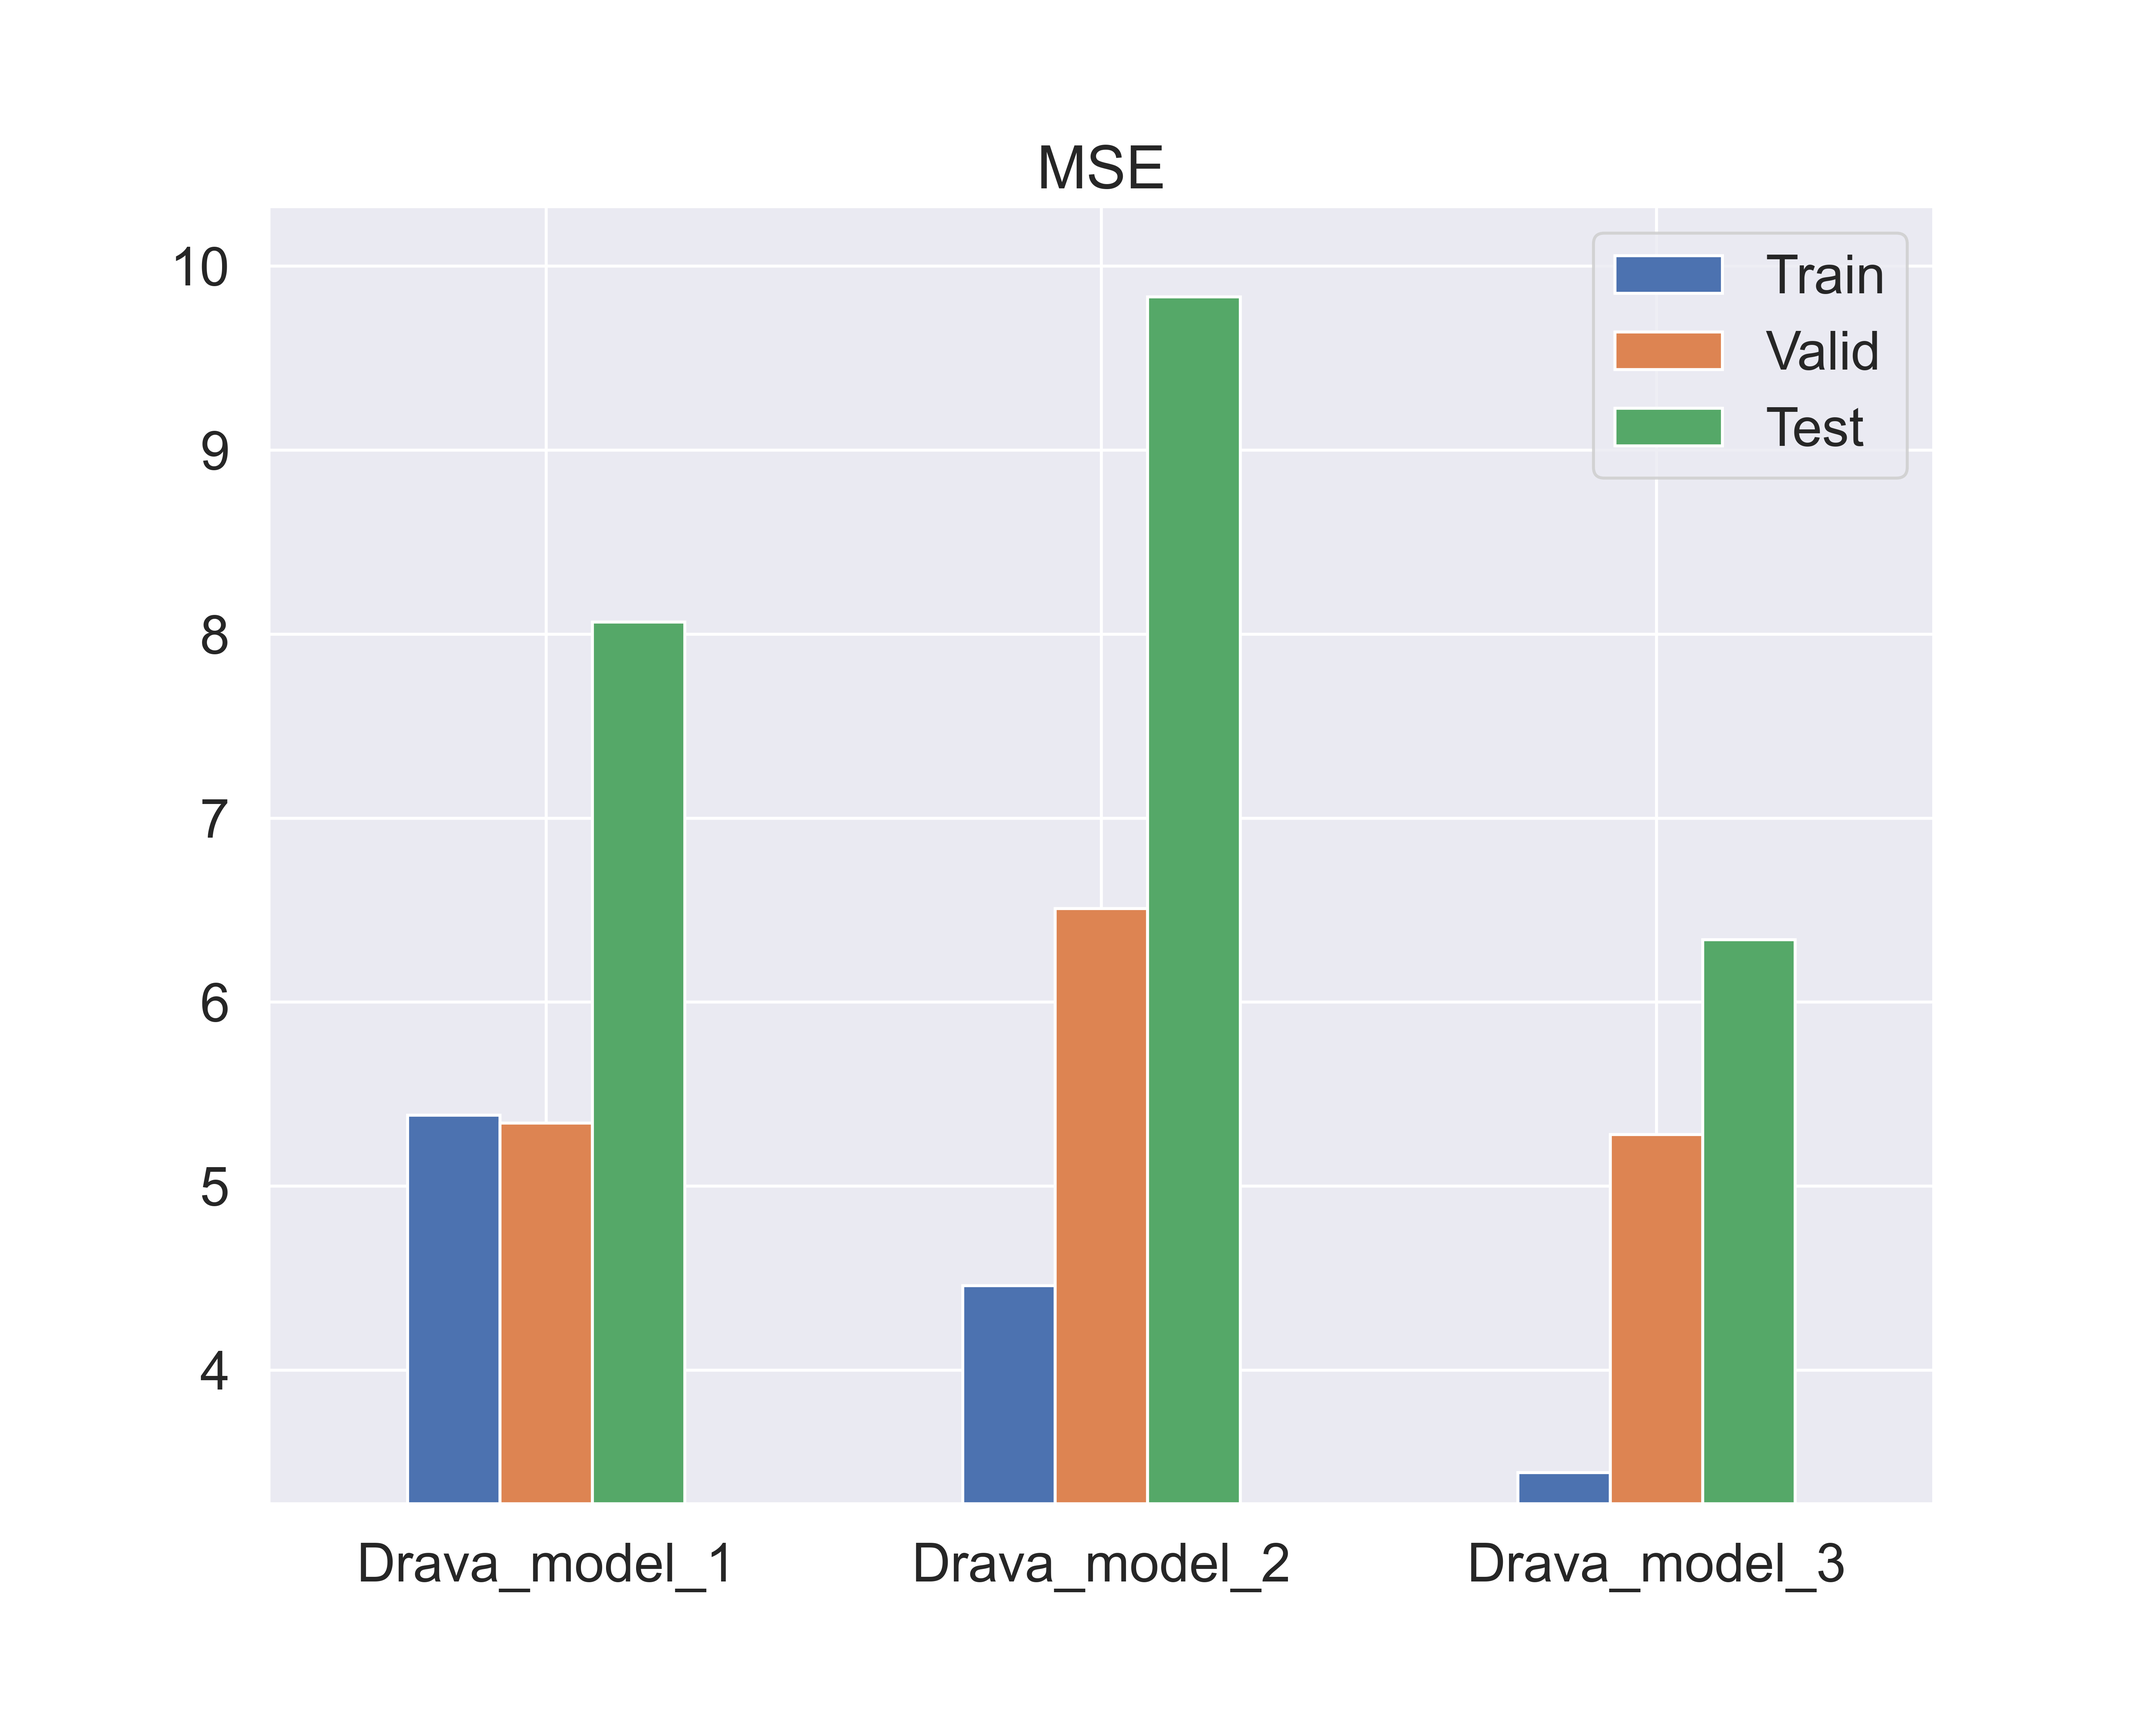
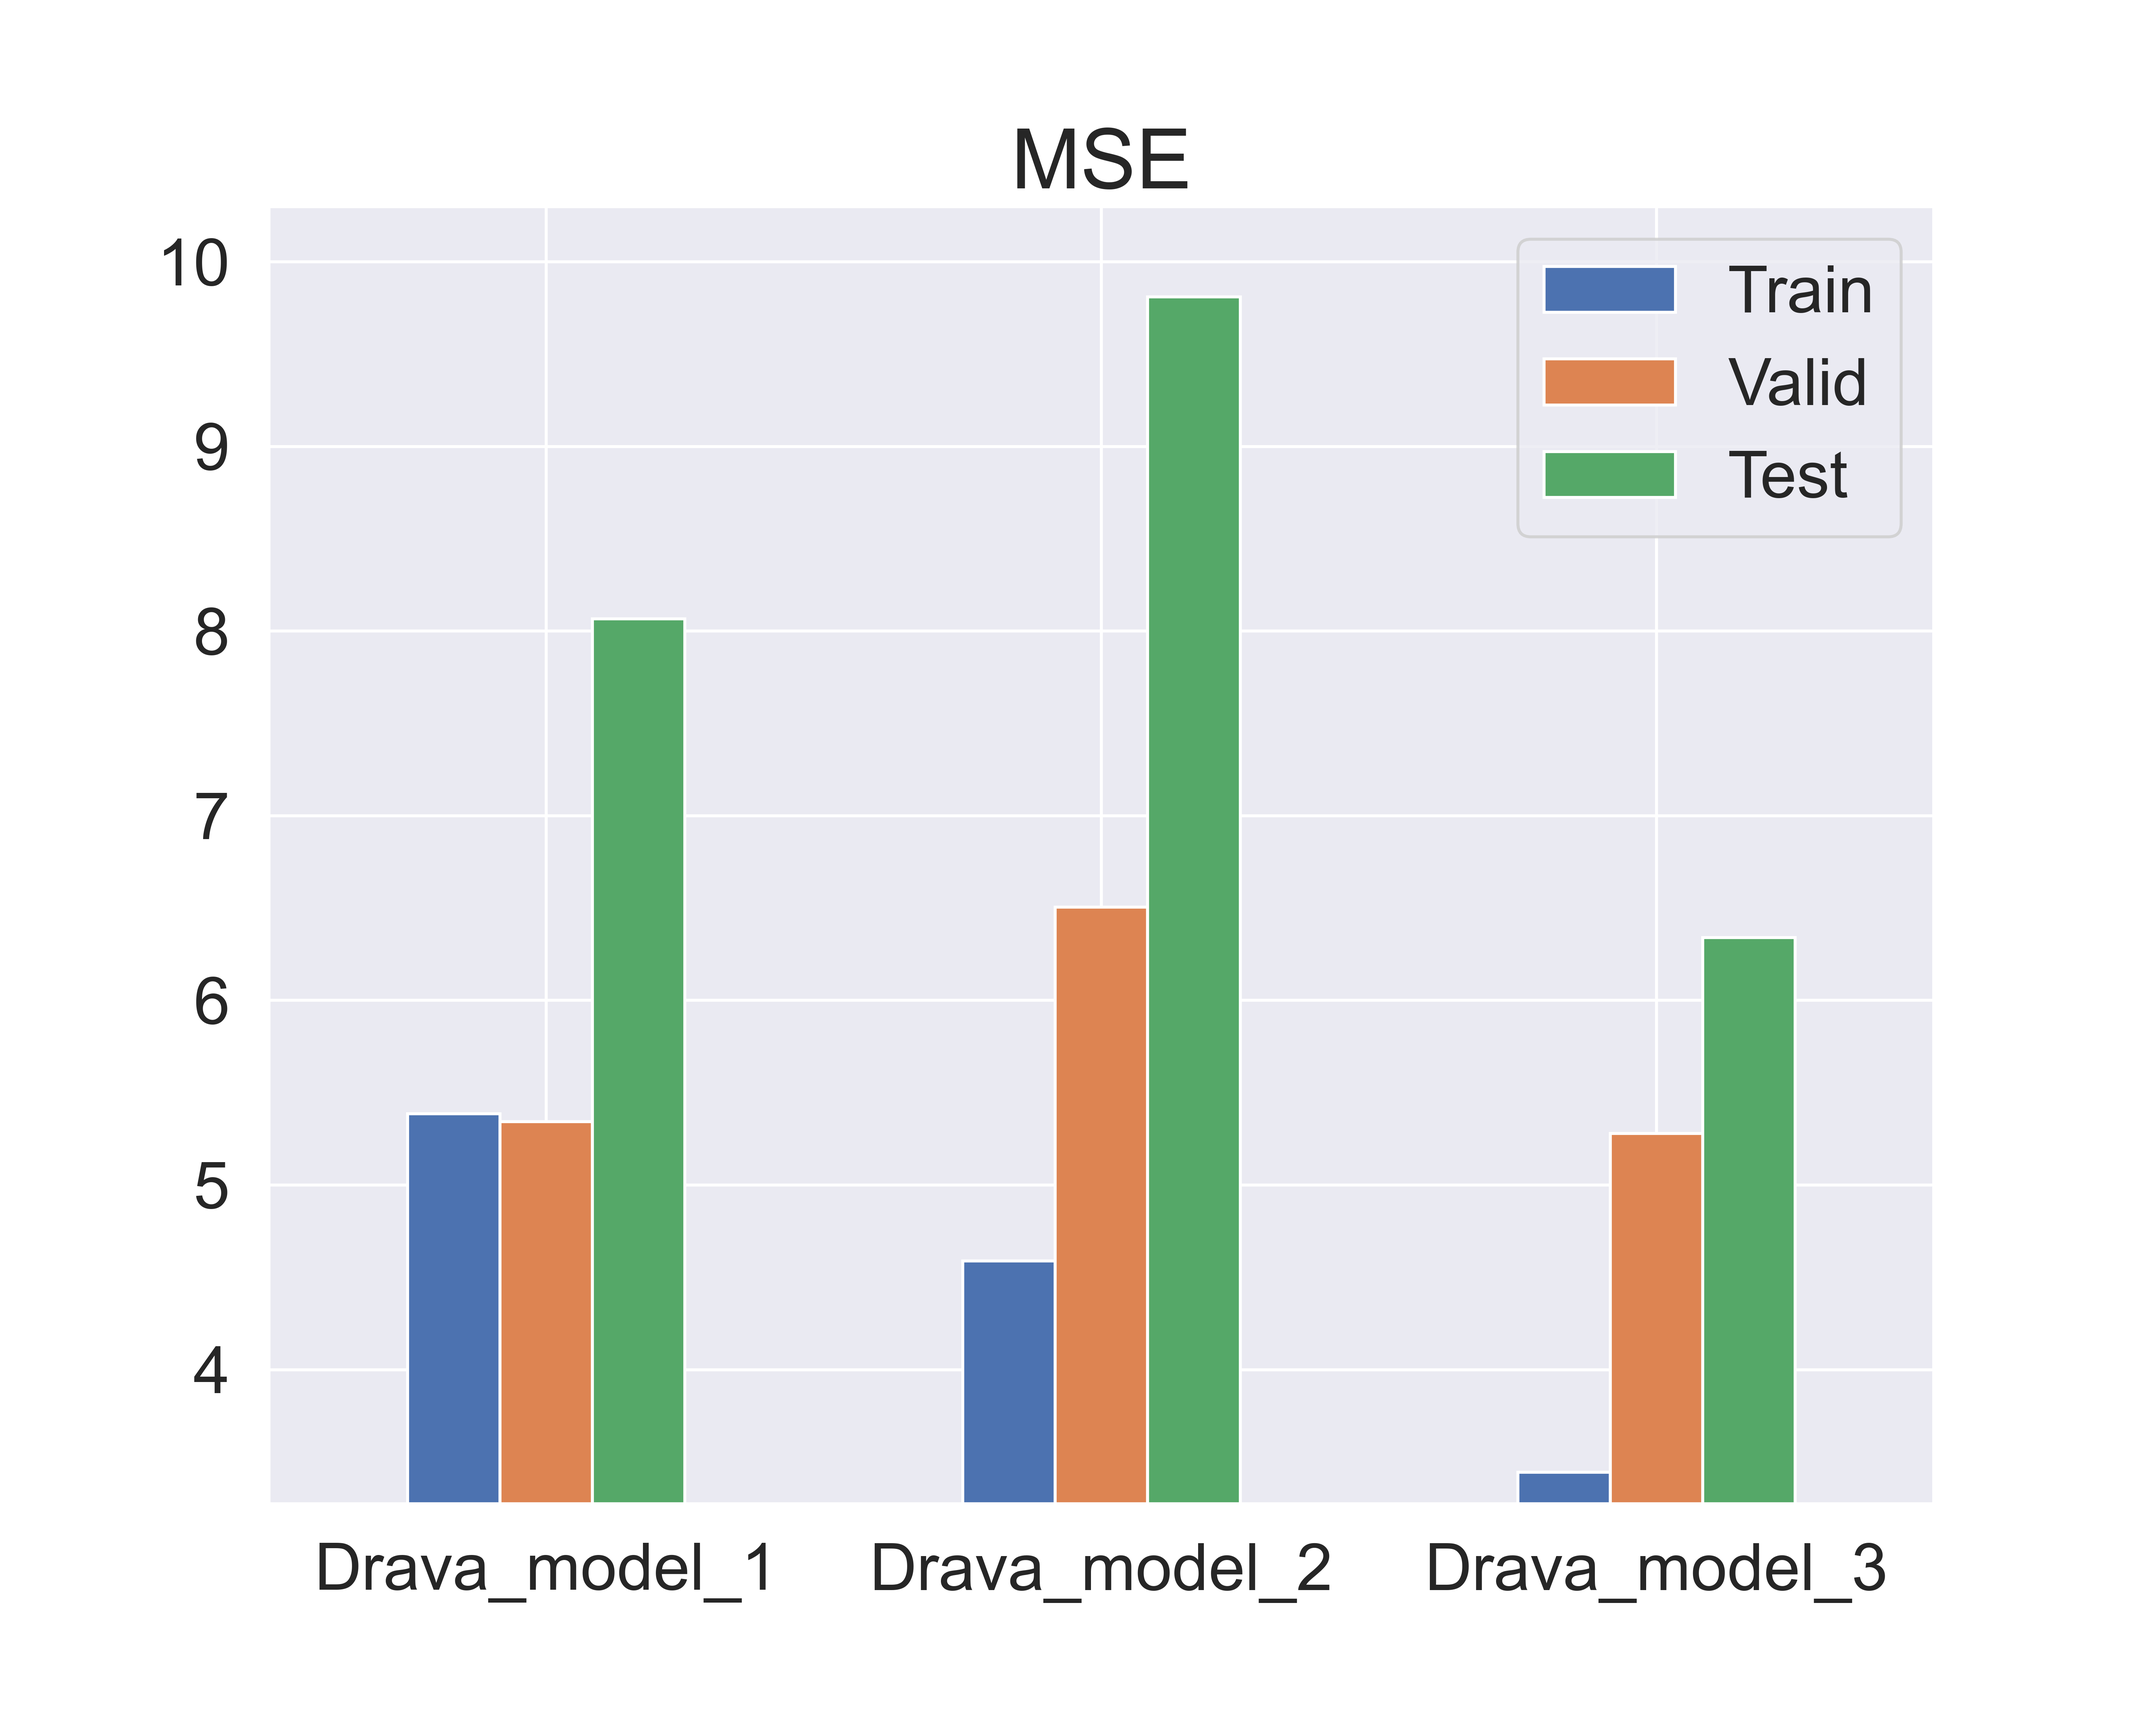
updates

diff --git a/train_network.py b/train_network.py
@@ -35,6 +35,7 @@ num_epochs = 30                 # number of new epochs to train for
 learning_rate = 0.00035          # learning rate
 device = "cuda"                 # select the device to train on "cuda" or "cpu"
 model_number = "Drava_model_3"        # model number
+resume_training = True
 # ============================
 
 
@@ -50,8 +51,14 @@ if __name__ == "__main__":
     train_loader, valid_loader, test_loader, q_scaler, df_scaler, train_scaled, valid_scaled, test_scaled = uf.train_val_test_split(
         model_data, train_end,  val_start, test_start, seq_len_in, seq_len_out, input_size)  
     
-    model, prev_epochs = uf.create_model(save_dir, input_size, hidden_size, num_layers, 
-                                         seq_len_out, network_architecture, device, dropout)
+    
+    # Dotjerati ovaj resume training da ne zeza kod otpakiravanja novog modela !!!!!
+    if resume_training:
+        model, prev_epochs = uf.create_model(save_dir, input_size, hidden_size, num_layers, 
+                                             seq_len_out, network_architecture, device, dropout)
+    else:
+        model, prev_epochs = uf.create_model(save_dir, input_size, hidden_size, num_layers, 
+                                     seq_len_out, network_architecture, device, dropout)
 
     checkpoint =  uf.train_network(model, train_loader, valid_loader, prev_epochs=prev_epochs, num_epochs=num_epochs, 
                                 num_batches= num_batches, learning_rate = learning_rate, device = device)

diff --git a/evaluate_metrics.py b/evaluate_metrics.py
@@ -35,16 +35,16 @@ def read_dfs(filename, select_metrics):
     return df
 
 
-def plot_metrics_bar(df, metric):
+def plot_metrics_bar(df, metric, transparency = True):
     fig, ax = plt.subplots(figsize=(10,8), dpi=600)
     df.plot.bar(ax = plt.gca())
     ax.set_ylim(df.to_numpy().min()*0.95, df.to_numpy().max()*1.05)
-    ax.xaxis.set_tick_params(which='major', pad=7, labelsize=18, rotation=0)
-    ax.yaxis.set_tick_params(which='major', pad=7, labelsize=18, rotation=0)
-    ax.set_title(metric.upper(), fontsize=20)
-    ax.legend(fontsize=18)
+    ax.xaxis.set_tick_params(which='major', pad=7, labelsize=22, rotation=0)
+    ax.yaxis.set_tick_params(which='major', pad=7, labelsize=22, rotation=0)
+    ax.set_title(metric.upper(), fontsize=28)
+    ax.legend(fontsize=22)
   
-    fig.savefig(metric+".png")
+    fig.savefig(metric+".png", transparent=transparency)
     print ("Graphs have been saved to result_mertrics folder.")
     
     
@@ -68,5 +68,5 @@ if __name__ == "__main__":
     df = pd.concat(dict_files)[select_metrics]
 
     for metric in df.columns:
-        plot_metrics_bar(df[metric].unstack(), metric)
+        plot_metrics_bar(df[metric].unstack(), metric, transparency=False)
         

diff --git a/utility_functions.py b/utility_functions.py
@@ -166,12 +166,13 @@ class LSTM(nn.Module):
                           "->[num_layers*num_directions, num_batches, hidden_size]", "\n"
                           "LSTM: c_state shape:", c_state.shape, 
                           "->[num_layers*num_directions, num_batches, hidden_size]")
-        # Reshape 
+        # Reshaping to take last tensor as output
         output = output[:, -1, :]
-        if prints: print("Output reshaped:", output.shape, "->[num_batches, hidden_size]")
+        if prints: print("LSTM Output reshaped:", output.shape, "->[num_batches, hidden_size]")
         # Fully connected layer
         output = self.linear(output)
         if prints: print("FNN: Final outpu shape:", output.shape, "->[num_batches, num_features]")
+        #print ("type of the LSTM output is: ", type(output))
         return output
         
 class RNN(nn.Module):
